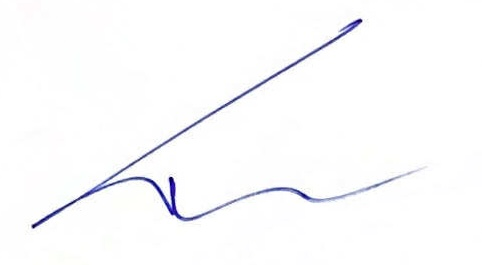
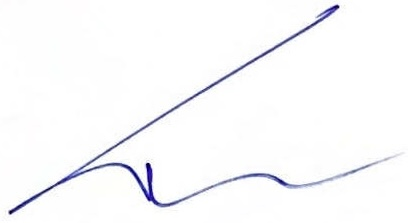
update signature

Changed region(s): [[0.0, 0.0269, 0.9706, 0.9686], [0.8529, 0.6188, 0.8824, 0.6457], [0.8235, 0.6457, 0.8529, 0.6726]]

diff --git a/internal/sheets/common_components.go b/internal/sheets/common_components.go
@@ -238,13 +238,21 @@ func (s *SignatureComponent) Apply(ctx context.Context) error {
 		return err
 	}
 
+	currentRow += 1
+	imageStartCell := fmt.Sprintf("%s%d", signatureCol, currentRow)
+	imageEndCell := fmt.Sprintf("%s%d", string(s.endCol), currentRow+s.signatureSpace-1)
+	f.MergeCell(s.sheetName, imageStartCell, imageEndCell)
+
 	if s.writeSignatureImage && s.signatureImagePath != "" {
-		scaleX := 0.25
-		scaleY := 0.25
+		scaleX := 0.8
+		scaleY := 0.8
 		f.AddPicture(s.sheetName, fmt.Sprintf("%s%d", GetNextColumn(signatureCol), currentRow+2), s.signatureImagePath, &excelize.GraphicOptions{
 			ScaleX:          scaleX,
 			ScaleY:          scaleY,
+			OffsetX:         80,
+			OffsetY:         20,
 			LockAspectRatio: true,
+			AutoFit:         true,
 		})
 	}
 

diff --git a/internal/sheets/result_online_report_generator.go b/internal/sheets/result_online_report_generator.go
@@ -98,7 +98,7 @@ func (r ResultOnlineReport) Generate(ctx context.Context, data interface{}) (io.
 	startSignatureRow := testTable.GetEndRow() + 2
 	signature := NewSignatureComponentWithConfig(f, sm, "Sheet1", startSignatureRow, 'C', 'E', SignatureConfig{
 		IncludeDate:         true, // Result report doesn't include date in signature
-		SignatureSpace:      6,    // 5 rows between lab dept and signature name
+		SignatureSpace:      7,    // 5 rows between lab dept and signature name
 		WriteSignatureName:  true, // Override the signature name in template
 		WriteSignatureImage: true,
 		SignatureImagePath:  "./assets/signature.jpg",
@@ -108,7 +108,7 @@ func (r ResultOnlineReport) Generate(ctx context.Context, data interface{}) (io.
 	}
 
 	// Calculate print area based on content (A1 to F + last row with data)
-	lastRow := signature.GetEndRow() + 2 // Add buffer rows
+	lastRow := signature.GetEndRow() + 3 // Add buffer rows
 	printArea := fmt.Sprintf("$A$1:$E$%d", lastRow)
 
 	err = r.ApplyPrintArea(ctx, f, printArea)